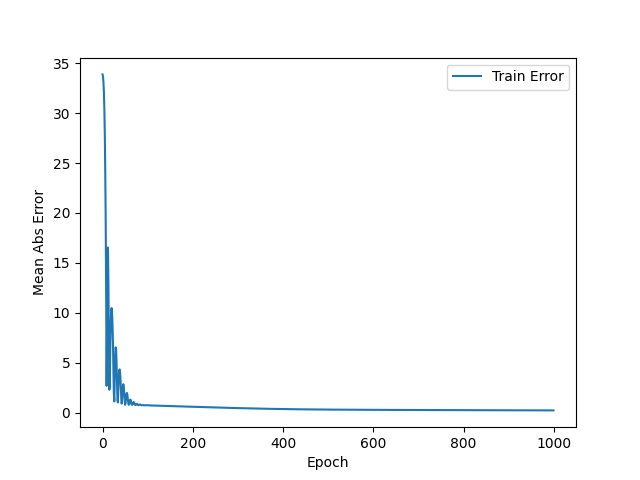
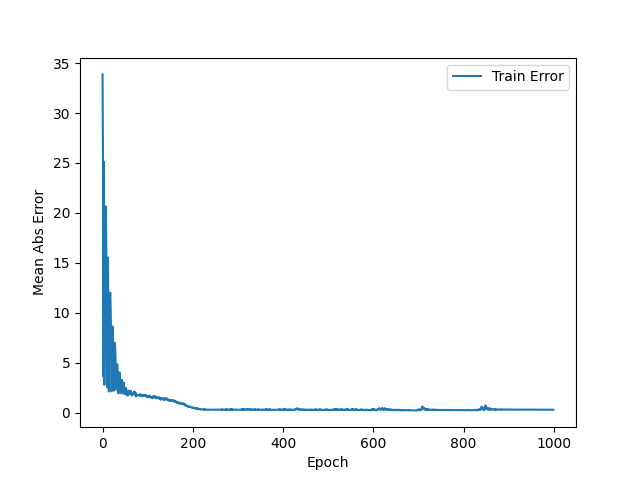
RMSE test 0.102
adding etra hidden layer

diff --git a/feedforward.py b/feedforward.py
@@ -113,7 +113,8 @@ def main():
     # Create the model
     model = Sequential()
     model.add(Dense(100, activation='relu',input_dim=n_input))
-    #model.add(Dropout(.2))
+    model.add(Dropout(.2))
+    model.add(Dense(50, activation='relu'))
     model.add(Dense(5, activation = 'relu'))
     model.add(Dense(n_steps_out))
     
